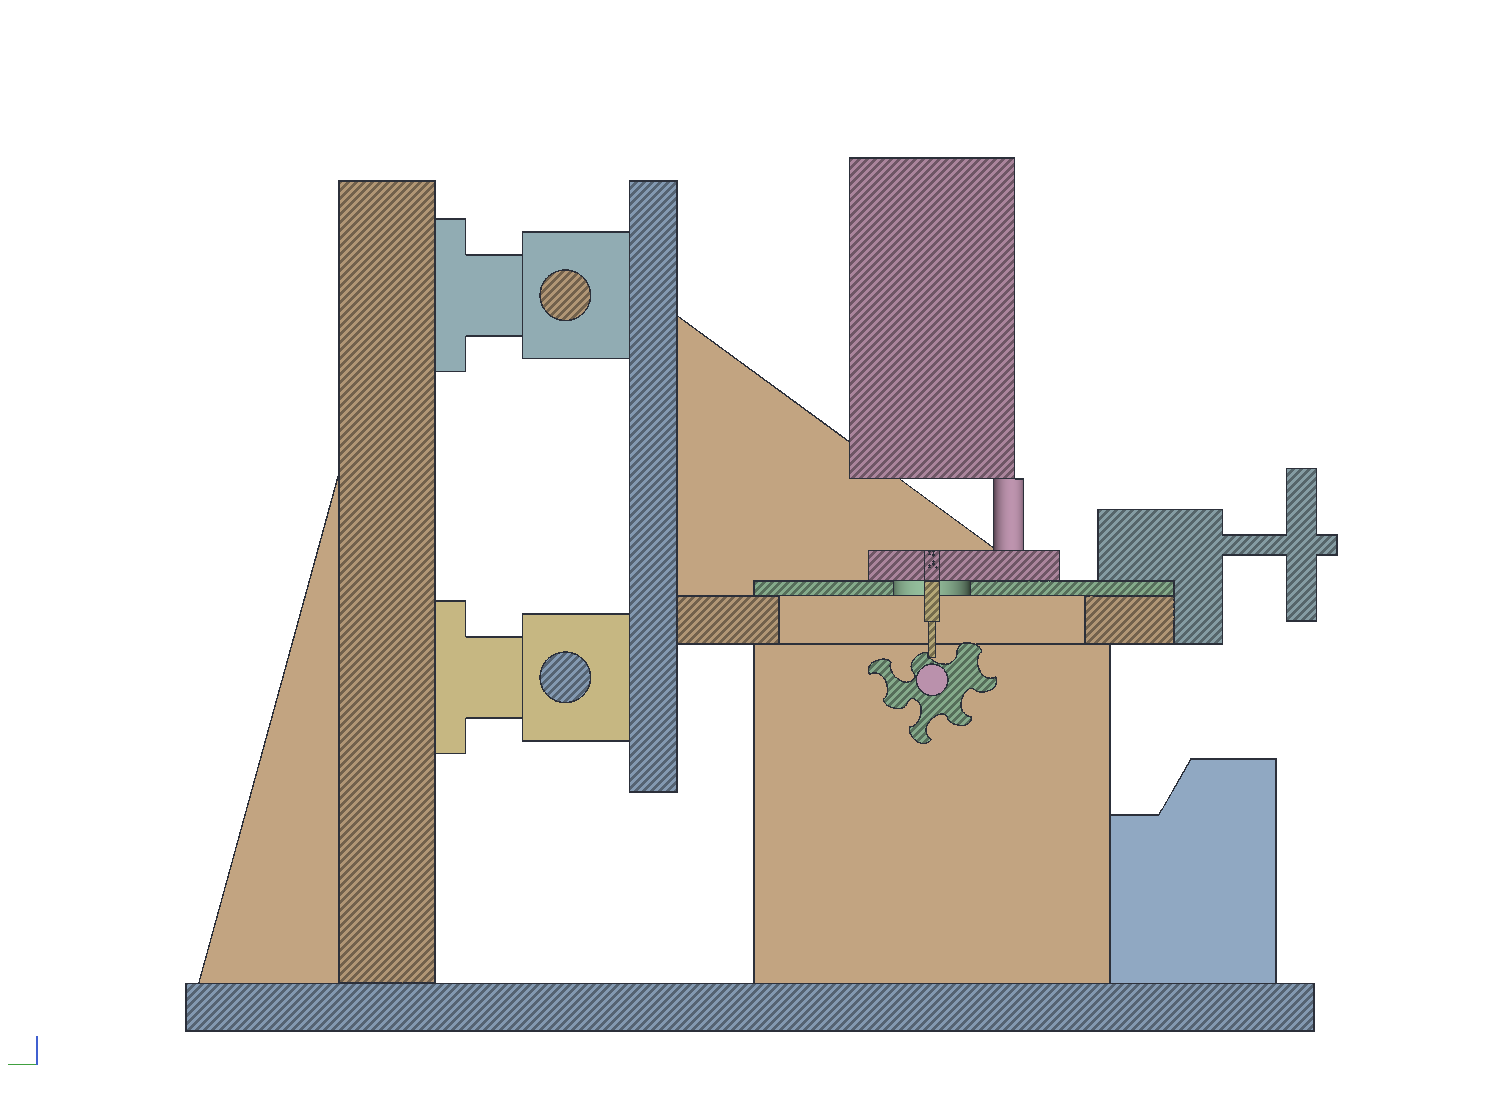
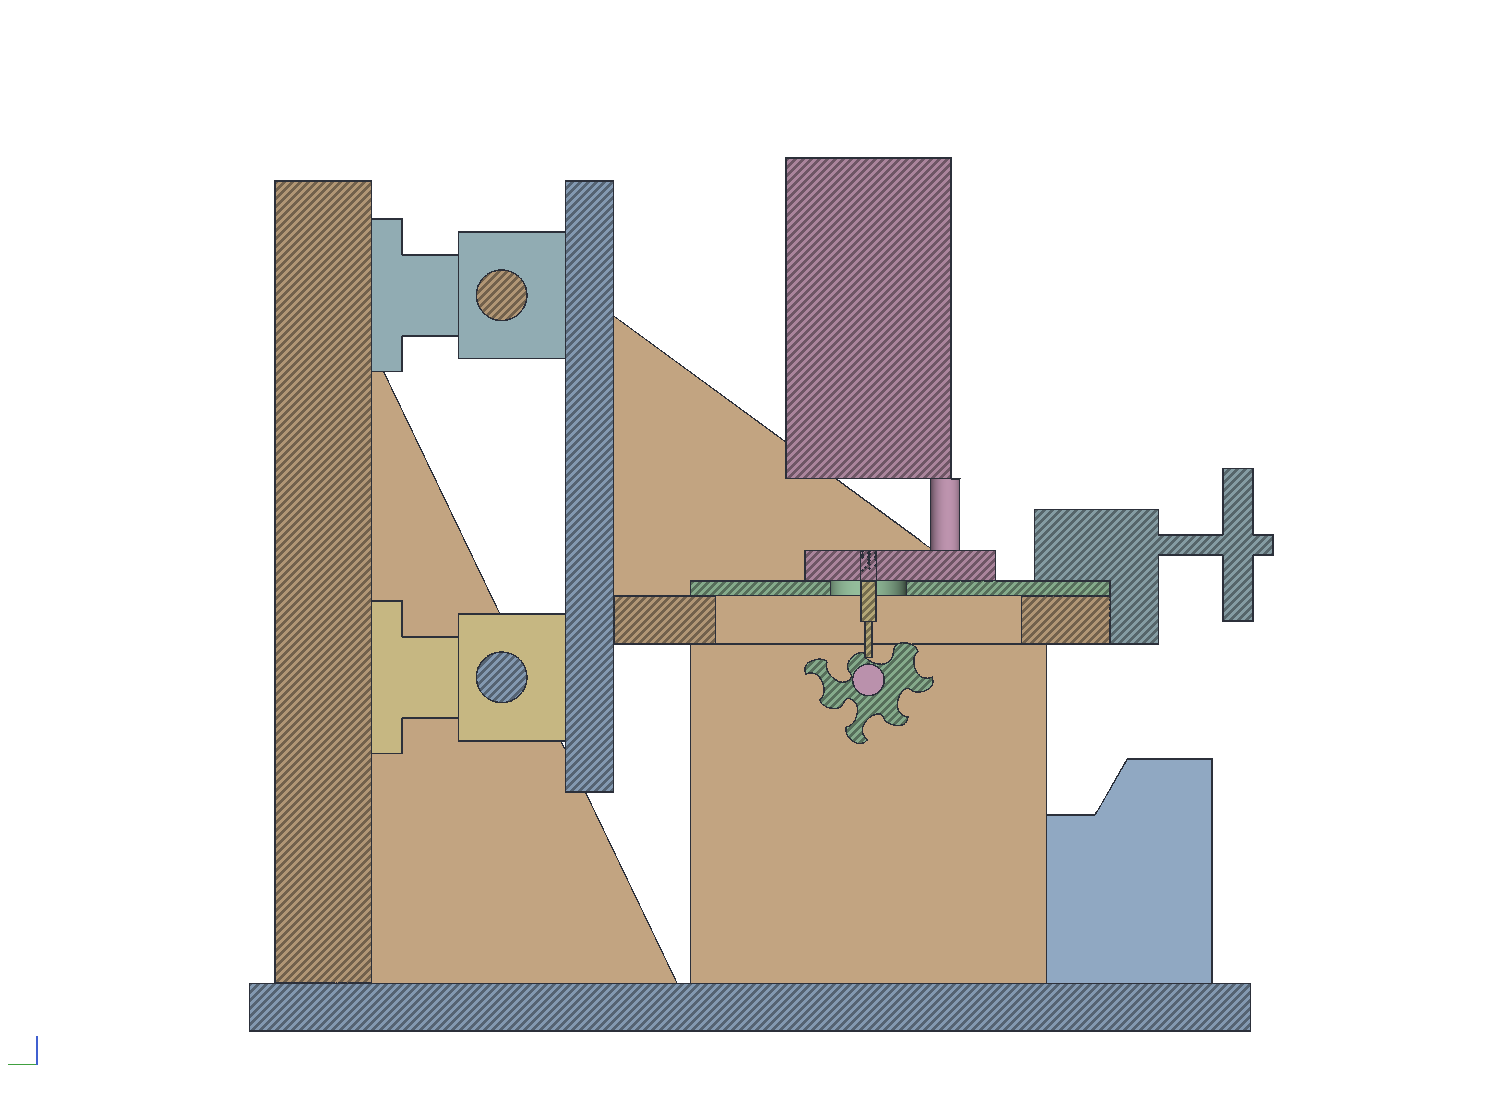
stick-mill: the wall's braces in front, outside the shafts' ends
The owner pointed out the braces behind the back wall could be in
front. They are now, at each end of a wall made 30 longer so they
stand outside the shafts' ends and the supports, and bigger for it:
120 deep and 250 tall where there was room for 55 by 200 behind. The
base loses the 50 mm strip behind the wall. The test checks nothing
of the wall is in a shaft, a support or a block. The quick chain's
fmt step flagged only the uncommitted files.

Claude-Session: https://claude.ai/code/session_01J4ziSXStmHDedjoitSWECi

Changed region(s): [[0.1227, 0.1236, 0.8893, 0.9582]]

diff --git a/examples/stick-mill/build.py b/examples/stick-mill/build.py
@@ -67,10 +67,11 @@ BLOCK_X = 85.0                                  # the blocks either side of the 
 WALL_Y = (RAIL_Y + SK_H, RAIL_Y + SK_H + 2 * PLY)   # the back wall, two plies: the shaft supports bolt to its face at both ends
 SUPPORT_X = (BIT_X[0] - SQUARE / 2 - 30.0, BIT_X[1] + SQUARE / 2 + 30.0)   # the supports, clear of the square at both ends of its travel
 SHAFT_X = (SUPPORT_X[0] - SK_T / 2 - 5.0, SUPPORT_X[1] + SK_T / 2 + 5.0)
-WALL_X = (SHAFT_X[0] - 10.0, SHAFT_X[1] + 10.0)
+GUSSET_D, GUSSET_H = 120.0, 250.0               # the wall's braces, in front of it at each end, outside the shafts' ends
+WALL_X = (SHAFT_X[0] - 6.0 - PLY, SHAFT_X[1] + 6.0 + PLY)
 WALL_TOP = RAIL_Z[1] + 45.0
 BASE_X = (WALL_X[0] - 10.0, WALL_X[1] + 10.0)
-BASE_Y = (-150.0, WALL_Y[1] + 60.0)
+BASE_Y = (-150.0, WALL_Y[1] + 10.0)
 # The router's shelf: out from the square's face over the stick, the cross slide on it.
 SHELF_W = 150.0                                 # along the stick
 SHELF_Y = (-95.0, FACE_Y)
@@ -132,8 +133,8 @@ def wall(p):
     box(p, "back wall, two plies", WALL_X, WALL_Y, (0.0, WALL_TOP))
     for i, x in enumerate((WALL_X[0], WALL_X[1] - PLY)):
         s = p.sketch("right", x, "gusset")
-        p.polygon(s, [(WALL_Y[1], 0.0), (WALL_Y[1] + 55.0, 0.0), (WALL_Y[1], 200.0)])
-        p.extrude(s, PLY, op="add", name="gusset")
+        p.polygon(s, [(WALL_Y[0], 0.0), (WALL_Y[0], GUSSET_H), (WALL_Y[0] - GUSSET_D, 0.0)])
+        p.extrude(s, PLY, op="add", name="brace, in front")
 
 
 def supports(p):

diff --git a/crates/ok-render/tests/stick_mill.rs b/crates/ok-render/tests/stick_mill.rs
@@ -86,6 +86,12 @@ fn the_shafts_are_held_at_both_ends_and_the_carriage_stays_between() {
         assert!(supports.iter().map(|k| overlap(s, k)).sum::<f64>() < 1.0);
         assert!(blocks.iter().map(|k| overlap(s, k)).sum::<f64>() < 1.0);
     }
+    // The wall's braces stand in front of it, outside the shafts' ends: nothing of the wall is in a shaft or a support.
+    let wall = bodies_of(&mut doc, "Back wall");
+    assert_eq!(wall.len(), 1);
+    for part in shafts.iter().chain(supports.iter()).chain(blocks.iter()) {
+        assert!(overlap(&wall[0], part) < 1e-6);
+    }
     let reach = f(&n["carriage"]["block_x"]) + f(&n["carriage"]["blk_l"]) / 2.0;
     let (b0, b1) = (f(&n["bit_x"][0]), f(&n["bit_x"][1]));
     println!(

diff --git a/examples/stick-mill/README.md b/examples/stick-mill/README.md
@@ -71,8 +71,8 @@ in the way, the next stop round cuts it with the side of the ball.
 
 | part | size, mm | |
 |---|---|---|
-| base | 586 x 443 ply | |
-| back wall | 566 x 315, two plies, a gusset behind each end | the four shaft supports bolt to its face |
+| base | 616 x 393 ply | |
+| back wall | 596 x 315, two plies, a brace in front at each end, 120 x 250 | the four shaft supports bolt to its face; the braces stand outside the shafts' ends |
 | shafts, 2 | 20 dia x 546 | cut from the 700s; one 150 above the other, an SK20 at each end |
 | carriage square | 240 x 240 ply, upright | an SC20UU behind each corner |
 | shelf | 150 x 195 ply, two gussets | out over the stick, the cross slide on it |
